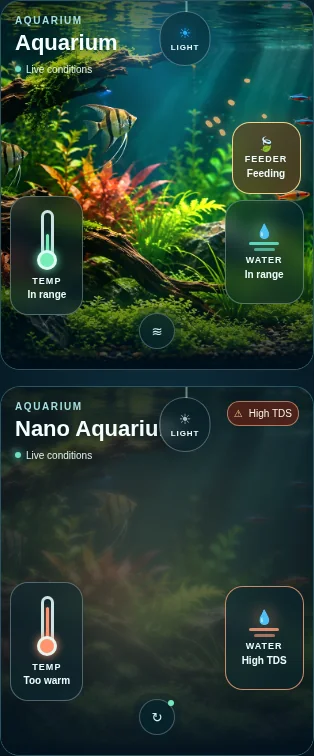
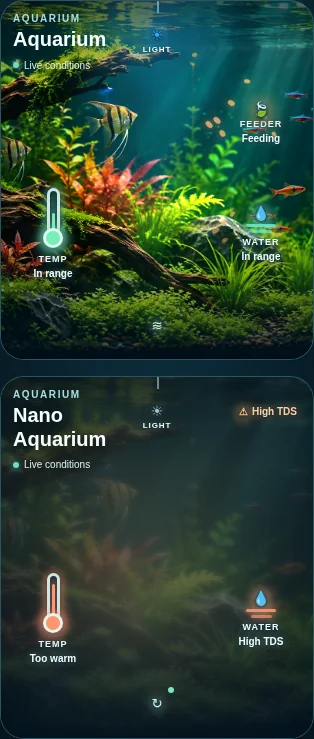
build: publish tested aquarium bundle and previews [skip ci]

diff --git a/dist/ha-aquarium-card.js b/dist/ha-aquarium-card.js
@@ -2,7 +2,7 @@
  * HA Aquarium Card — dependency-free Home Assistant dashboard card.
  * Copyright (c) 2026 HA Aquarium Card contributors. MIT licensed.
  */
-const AQUARIUM_CARD_VERSION = "0.2.0";
+const AQUARIUM_CARD_VERSION = "0.2.1";
 const DEFAULT_IMAGE = new URL("./aquarium-default.webp", import.meta.url).href;
 const INVALID_STATES = new Set(["unknown", "unavailable", "none", "null", ""]);
 const CATEGORY_ORDER = ["temperature", "tds", "light", "feeder", "water_level", "ph", "salinity", "pump", "heater"];
@@ -22,7 +22,7 @@ const STYLES = `
   :host { display:block; color:var(--primary-text-color); }
   ha-card { display:block; overflow:visible; background:transparent; border:0; box-shadow:none; }
   .collection { display:grid; gap:16px; }
-  .tank { position:relative; isolation:isolate; overflow:hidden; min-height:358px; border-radius:24px;
+  .tank { position:relative; isolation:isolate; container-type:inline-size; overflow:hidden; min-height:358px; border-radius:24px;
     background:#062a39; color:#f5fffe; border:1px solid rgba(163,231,233,.23);
     box-shadow:0 12px 34px rgba(2,15,24,.23); --light-rgb:142,204,248; --beam-opacity:0;
     --photo-brightness:1; --night-opacity:0; --haze-opacity:0; }
@@ -57,49 +57,58 @@ const STYLES = `
     border-radius:65% 40% 60% 45%; background:#e9ae67; border:1px solid rgba(255,222,170,.35);
     box-shadow:0 1px 7px rgba(235,179,99,.6); opacity:0;
     animation:flake-fall var(--flake-duration) var(--flake-delay) linear infinite; }
-  .scene-ui { position:relative; z-index:7; box-sizing:border-box; min-height:358px; padding:19px;
-    display:flex; flex-direction:column; justify-content:space-between; gap:12px; }
-  .head { display:flex; justify-content:space-between; align-items:start; gap:12px; }
-  .heading { min-width:0; }
+  /* Dedicated rows keep feeder, water quality and equipment hit targets apart.
+     Size against the card, not the viewport: narrow dashboard columns are common. */
+  .scene-ui { position:relative; z-index:7; box-sizing:border-box; min-height:358px; padding:18px;
+    display:grid; grid-template-columns:minmax(0,1fr) 60px minmax(0,1fr);
+    grid-template-rows:auto minmax(64px,1fr) minmax(106px,1.4fr) auto; gap:10px 8px; }
+  .head { grid-area:1 / 1 / 2 / 4; display:grid;
+    grid-template-columns:minmax(0,1fr) 60px minmax(0,1fr); column-gap:8px; align-items:start; }
+  .heading { grid-column:1; min-width:0; }
   .eyebrow { font-size:10px; font-weight:700; letter-spacing:.16em; color:#a4dfe1; text-transform:uppercase; margin-bottom:4px; }
   .title { margin:0; font-size:clamp(20px,3.4vw,28px); font-weight:700; line-height:1.18; overflow-wrap:anywhere;
     text-shadow:0 2px 14px rgba(0,0,0,.6); }
   .connectivity { display:flex; gap:5px; align-items:center; font-size:10px; color:#d9f1f0; margin-top:8px;
     text-shadow:0 1px 9px rgba(0,0,0,.65); }
-  .connectivity-dot { width:6px; height:6px; border-radius:50%; background:#6fdec6; box-shadow:0 0 8px #70ffce; }
+  .connectivity-dot { flex:none; width:6px; height:6px; border-radius:50%; background:#6fdec6; box-shadow:0 0 8px #70ffce; }
   .connectivity.offline .connectivity-dot { background:#9aa6ae; box-shadow:none; }
-  .alarms { display:flex; flex-direction:column; align-items:flex-end; gap:5px; max-width:58%; }
-  .alarm { color:#ffefe7; background:rgba(91,34,23,.81); border:1px solid rgba(255,185,134,.58);
-    border-radius:12px; padding:7px 9px; font:600 11px inherit; font-size:11px; cursor:pointer; display:flex;
-    align-items:center; gap:6px; text-shadow:0 1px 4px #342322; backdrop-filter:blur(8px); }
-  .alarm ha-icon { --mdc-icon-size:17px; color:#ffbe7f; }
-  .scene-hotspot { -webkit-tap-highlight-color:transparent; position:absolute; color:#ecfcfc; cursor:pointer; appearance:none;
-    font:inherit; background:rgba(4,34,45,.50); backdrop-filter:blur(9px); -webkit-backdrop-filter:blur(9px);
-    border:1px solid rgba(213,247,249,.32); border-radius:18px; display:flex; flex-direction:column;
-    align-items:center; justify-content:center; gap:3px; padding:8px; box-shadow:0 6px 17px rgba(0,12,23,.18);
-    transition:border-color .2s ease,background .2s ease,transform .2s ease; }
-  .scene-hotspot:hover { background:rgba(10,65,76,.72); border-color:rgba(221,255,249,.64); transform:translateY(-2px); }
-  .scene-hotspot:focus-visible, .alarm:focus-visible, .accessory:focus-visible { outline:3px solid #fff; outline-offset:3px; }
+  .alarms { grid-column:3; min-width:0; display:flex; flex-direction:column; align-items:flex-end; gap:5px; }
+  .alarm { color:#ffcea8; background:transparent; border:0; border-radius:6px; min-height:44px;
+    padding:4px; font:inherit; font-size:11px; font-weight:600; cursor:pointer; display:flex;
+    align-items:center; gap:6px; text-shadow:0 1px 4px #071b20,0 0 9px rgba(255,174,112,.7);
+    max-width:100%; box-sizing:border-box; text-align:start; overflow-wrap:anywhere; }
+  .alarm ha-icon { --mdc-icon-size:20px; flex:none; color:#ffbe7f;
+    filter:drop-shadow(0 1px 2px #09212b) drop-shadow(0 0 6px currentColor); }
+  .scene-hotspot { -webkit-tap-highlight-color:transparent; position:relative; color:#ecfcfc; cursor:pointer; appearance:none;
+    font:inherit; background:transparent; backdrop-filter:none; -webkit-backdrop-filter:none;
+    border:0; border-radius:6px; display:flex; flex-direction:column; box-sizing:border-box;
+    align-items:center; justify-content:center; gap:3px; padding:5px; box-shadow:none; min-width:44px; min-height:44px;
+    max-width:100%; text-shadow:0 1px 4px #031c27,0 0 8px rgba(199,248,255,.55);
+    transition:filter .2s ease; }
+  .scene-hotspot:hover, .accessory:hover, .alarm:hover { filter:brightness(1.15); }
+  .scene-hotspot:focus-visible, .alarm:focus-visible, .accessory:focus-visible { outline:2px solid #fff; outline-offset:2px; }
   .scene-hotspot:disabled { cursor:default; }
   .scene-hotspot.unavailable { opacity:.65; }
   .scene-hotspot .spot-label { font-size:9px; text-transform:uppercase; letter-spacing:.115em; font-weight:720; line-height:1.1; }
-  .scene-hotspot .spot-condition { font-size:10px; font-weight:630; line-height:1.2; white-space:nowrap; }
-  .light-control { top:13px; left:50%; width:51px; min-height:55px; transform:translateX(-50%);
-    padding:4px; border-radius:25px; background:rgba(1,27,36,.46); }
-  .light-control:hover { transform:translateX(-50%) translateY(1px); }
+  .scene-hotspot .spot-condition { font-size:10px; font-weight:630; line-height:1.2; overflow-wrap:anywhere; }
+  .light-control { grid-area:1 / 2; justify-self:center; align-self:start; width:52px; min-height:55px; }
   .light-control::before { content:''; position:absolute; bottom:100%; left:50%; height:16px; border-left:2px solid rgba(195,237,233,.5); }
-  .light-control ha-icon { --mdc-icon-size:26px; color:var(--lamp-color,#c8d6da); filter:drop-shadow(0 0 6px var(--lamp-color,#d3eef4)); }
+  .light-control ha-icon { --mdc-icon-size:26px; color:var(--lamp-color,#c8d6da);
+    filter:drop-shadow(0 1px 2px #09212b) drop-shadow(0 0 6px var(--lamp-color,#d3eef4)); }
   .light-control .spot-label { font-size:8px; }
-  .light-control.is-off ha-icon { color:#adbbca; filter:none; }
-  .feeder-control { top:33%; right:5%; width:69px; min-height:72px; }
-  .feeder-control ha-icon { --mdc-icon-size:27px; color:#f4cf92; }
-  .feeder-control.is-feeding { border-color:rgba(250,220,142,.95); background:rgba(108,69,27,.65); box-shadow:0 0 27px rgba(255,189,85,.27); }
-  .temperature-control { top:48%; left:4%; width:73px; min-height:119px; --level-color:#a4c1c7; }
+  .light-control.is-off ha-icon { color:#adbbca; filter:drop-shadow(0 1px 3px #09212b); }
+  .feeder-control { grid-area:2 / 3; justify-self:end; align-self:center; width:80px; min-height:64px; }
+  .feeder-control ha-icon { --mdc-icon-size:29px; color:#f4cf92;
+    filter:drop-shadow(0 1px 2px #09212b) drop-shadow(0 0 6px rgba(244,207,146,.7)); }
+  .feeder-control.is-feeding ha-icon { color:#ffe1a1;
+    filter:drop-shadow(0 1px 2px #09212b) drop-shadow(0 0 8px #ffbe66) drop-shadow(0 0 15px rgba(255,189,85,.5)); }
+  .temperature-control { grid-area:3 / 1; justify-self:start; align-self:center; width:80px; min-height:106px; --level-color:#a4c1c7; }
   .temperature-control.temp-cold { --level-color:#6dc8fd; }
   .temperature-control.temp-ok { --level-color:#76edb5; }
   .temperature-control.temp-hot { --level-color:#ff956e; }
   .temperature-control.temp-unknown { --level-color:#9babb3; }
-  .thermometer { position:relative; width:22px; height:60px; margin:0 0 4px; }
+  .thermometer { position:relative; width:22px; height:60px; margin:0 0 4px; flex:none;
+    filter:drop-shadow(0 1px 2px #09212b) drop-shadow(0 0 5px var(--level-color)); }
   .therm-stem { box-sizing:border-box; position:absolute; top:0; left:5px; width:13px; height:49px; border-radius:12px 12px 5px 5px;
     border:3px solid rgba(229,252,249,.89); background:rgba(3,31,50,.42); overflow:hidden; }
   .therm-level { position:absolute; bottom:-1px; left:2px; right:2px; height:var(--therm-height,50%); border-radius:7px;
@@ -107,50 +116,46 @@ const STYLES = `
   .therm-bulb { position:absolute; bottom:0; left:1px; width:20px; height:20px; border-radius:50%;
     box-sizing:border-box; border:3px solid rgba(229,252,249,.93); background:var(--level-color);
     box-shadow:0 0 10px var(--level-color); }
-  .quality-control { top:51%; right:4%; width:79px; min-height:104px; --quality-color:#9bdee3; }
+  .quality-control { grid-area:3 / 3; justify-self:end; align-self:center; width:80px; min-height:100px; --quality-color:#9bdee3; }
   .quality-control.quality-good { --quality-color:#67ebd2; }
   .quality-control.quality-warning { --quality-color:#f2c16d; }
-  .quality-control.quality-bad { --quality-color:#ff9a77; border-color:rgba(255,160,120,.8); }
+  .quality-control.quality-bad { --quality-color:#ff9a77; }
   .quality-control.quality-unknown { --quality-color:#a2b8c3; }
-  .quality-control ha-icon { --mdc-icon-size:35px; color:var(--quality-color); filter:drop-shadow(0 0 9px var(--quality-color)); }
-  .water-lines { display:flex; flex-direction:column; gap:3px; align-items:center; margin:0 0 2px; }
+  .quality-control ha-icon { --mdc-icon-size:35px; color:var(--quality-color);
+    filter:drop-shadow(0 1px 2px #09212b) drop-shadow(0 0 7px var(--quality-color)); }
+  .water-lines { display:flex; flex-direction:column; gap:3px; align-items:center; margin:0 0 2px;
+    filter:drop-shadow(0 0 5px var(--quality-color)); }
   .water-lines span { display:block; width:30px; height:3px; border-radius:15px; background:var(--quality-color); opacity:.85; }
   .water-lines span:nth-child(2) { width:21px; opacity:.62; }
-  .scene-footer { align-self:center; margin-top:auto; display:flex; gap:8px; justify-content:center; flex-wrap:wrap;
-    padding:7px 9px; border-radius:18px; background:rgba(2,27,40,.32); }
-  .accessory { display:flex; align-items:center; justify-content:center; position:relative; width:36px; height:36px;
-    background:rgba(5,34,44,.67); color:#cbf3ed; border:1px solid rgba(217,250,253,.27);
-    border-radius:50%; cursor:pointer; backdrop-filter:blur(9px); }
-  .accessory:hover { background:rgba(22,82,91,.92); }
-  .accessory ha-icon { --mdc-icon-size:20px; }
+  .scene-footer { grid-area:4 / 1 / 5 / 4; justify-self:center; display:flex; gap:8px; justify-content:center; flex-wrap:wrap;
+    padding:0; background:transparent; }
+  .accessory { display:flex; align-items:center; justify-content:center; position:relative; width:44px; height:44px;
+    padding:6px; box-sizing:border-box; background:transparent; color:#cbf3ed; border:0; box-shadow:none;
+    border-radius:6px; cursor:pointer; backdrop-filter:none; -webkit-backdrop-filter:none; transition:filter .2s ease; }
+  .accessory ha-icon { --mdc-icon-size:23px; filter:drop-shadow(0 1px 2px #09212b) drop-shadow(0 0 6px currentColor); }
   .accessory.off { color:#8eabb5; opacity:.77; }
-  .accessory.alert { color:#ffab80; border-color:#ffb28f; box-shadow:0 0 12px rgba(255,146,89,.34); }
+  .accessory.alert { color:#ffab80; }
   .accessory.unavailable { color:#8b9aa6; opacity:.65; }
-  .accessory .activity-dot { position:absolute; top:0; right:0; width:6px; height:6px; border-radius:50%; background:#74e9bc; }
+  .accessory .activity-dot { position:absolute; top:5px; right:5px; width:6px; height:6px; border-radius:50%; background:#74e9bc; }
   .accessory.off .activity-dot, .accessory.unavailable .activity-dot { background:#99adb9; }
   .accessory.alert .activity-dot { background:#ff8766; }
-  .empty { align-self:center; max-width:300px; text-align:center; background:rgba(5,30,41,.8); border-radius:14px;
+  .empty { grid-area:2 / 1 / 5 / 4; justify-self:center; align-self:center; max-width:300px; text-align:center; background:rgba(5,30,41,.8); border-radius:14px;
     padding:15px 18px; line-height:1.5; font-size:12px; }
   @keyframes caustics { from { transform:scale(1.12) translate(-1.5%,.5%); } to { transform:scale(1.25) translate(1%,1%); } }
   @keyframes flake-fall { 0% { opacity:0; transform:translate3d(0,0,0) rotate(-20deg); }
     10% { opacity:.95; } 75% { opacity:.8; } 100% { opacity:0; transform:translate3d(var(--flake-drift),240px,0) rotate(190deg); } }
-  @media (max-width:520px) {
-    .tank { min-height:368px; border-radius:20px; }
-    .scene-ui { padding:14px; min-height:368px; }
-    .title { font-size:22px; max-width:190px; }
-    .light-control { top:10px; left:59%; }
-    .feeder-control { top:33%; right:4%; }
-    .temperature-control { top:53%; left:3%; }
-    .quality-control { top:54%; right:3%; }
-    .alarms { max-width:49%; }
-    .alarm { padding:6px; font-size:10px; }
-    .scene-footer { gap:5px; padding:6px; }
+  @container (max-width:380px) {
+    .scene-ui { padding:12px; column-gap:6px; }
+    .head { column-gap:6px; }
+    .title { font-size:20px; }
+    .alarm { gap:4px; font-size:10px; }
+    .scene-footer { gap:5px; }
   }
   @media (prefers-reduced-motion:reduce) {
     .caustics { animation:none; }
     .flake { animation:none; opacity:.75; top:28%; }
     .photo,.night-shade,.light-beam,.light-surface,.water-haze,.therm-level,.flake-field { transition:none; }
-    .scene-hotspot { transition:none; }
+    .scene-hotspot, .accessory { transition:none; }
   }
 `;
 
